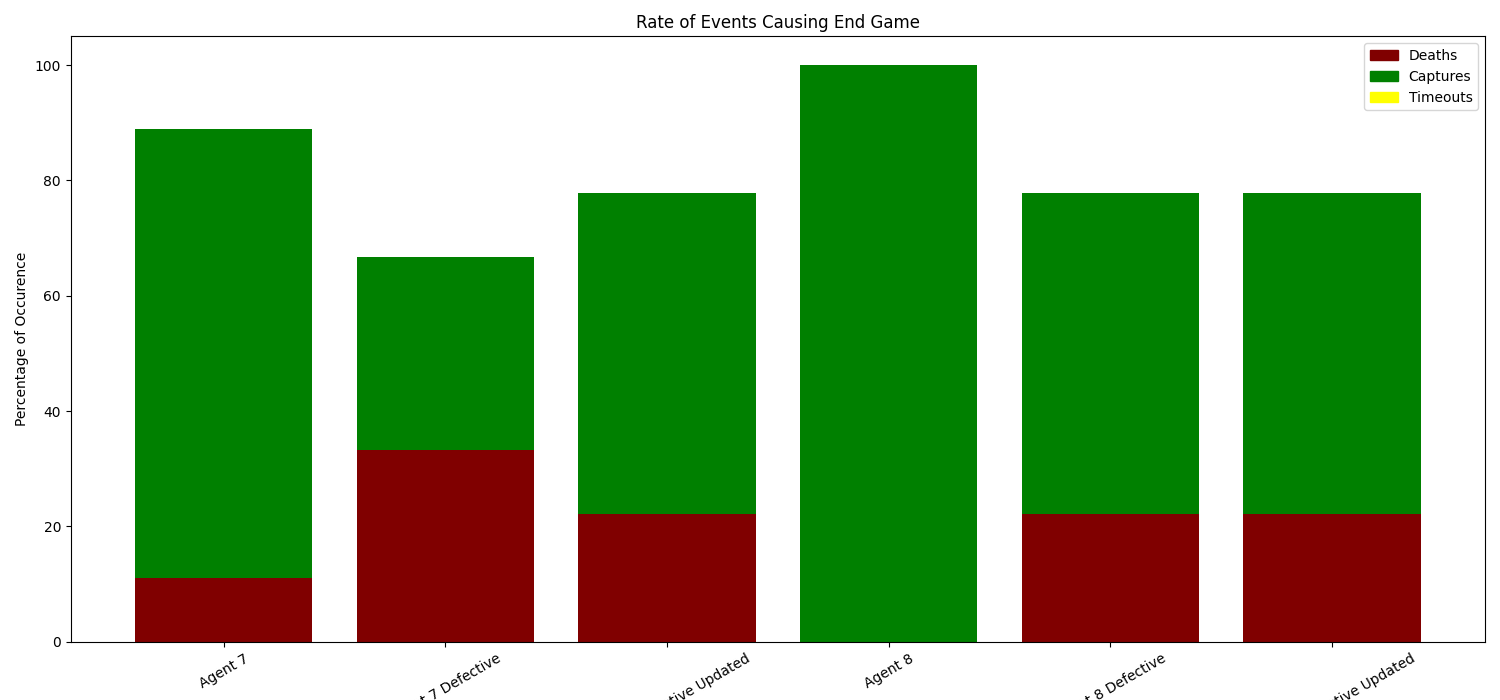
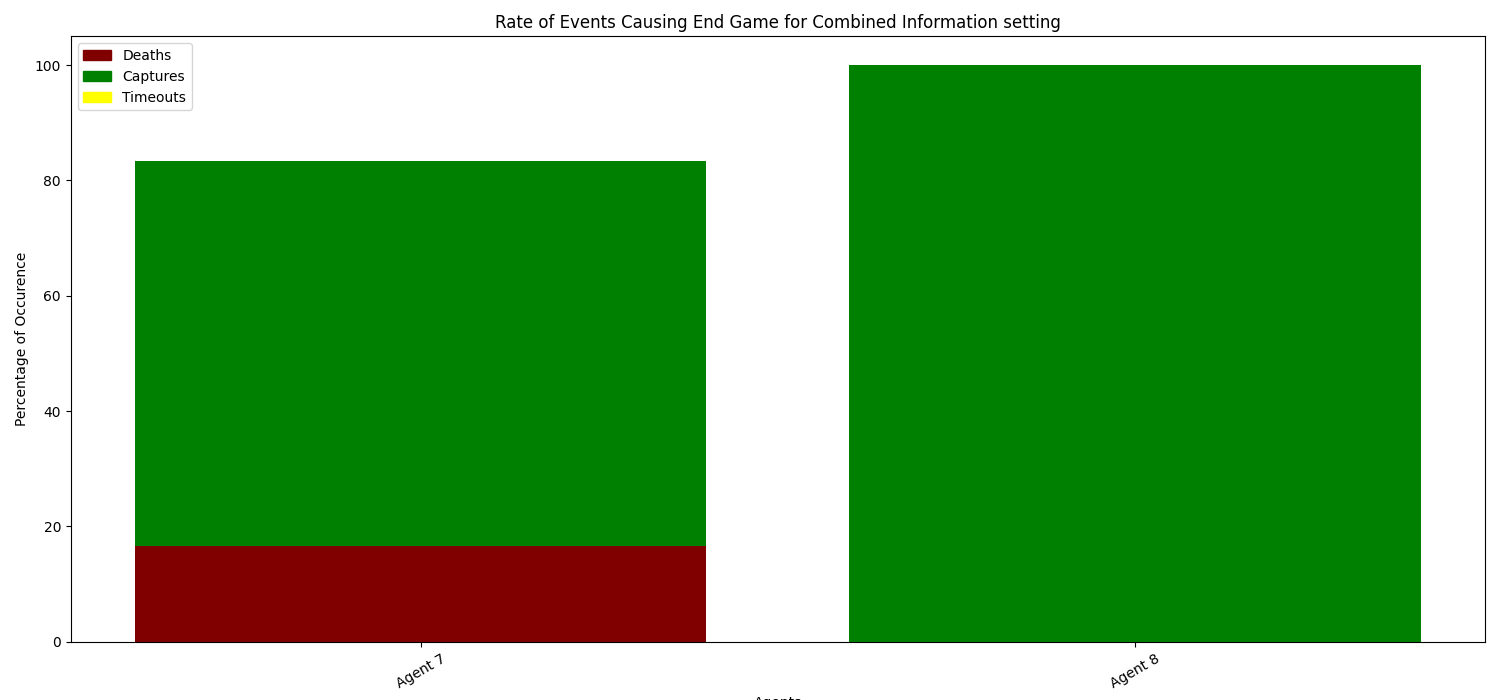
Fixed Labels

diff --git a/main.py b/main.py
@@ -325,11 +325,7 @@ def main():
       'Agent 5':round((a5_caught/total_runs) * 100, 3),
        'Agent 6':round((a6_caught/total_runs) * 100, 3),
         'Agent 7':round((a7_caught/total_runs) * 100, 3),
-         'Agent 7 Defective':round((a7d_caught/total_runs) * 100, 3),
-          'Agent 7 Defective Updated':round((a7du_caught/total_runs) * 100, 3),
-           'Agent 8':round((a8_caught/total_runs) * 100, 3),
-            'Agent 8 Defective':round((a8d_caught/total_runs) * 100, 3),
-             'Agent 8 Defective Updated':round((a7du_caught/total_runs) * 100, 3)}
+           'Agent 8':round((a8_caught/total_runs) * 100, 3)}
 
     death_data = {'Agent 1':round((a1_died/total_runs) * 100, 3),
      'Agent 2':round((a2_died/total_runs) * 100, 3),
@@ -338,11 +334,7 @@ def main():
       'Agent 5':round((a5_died/total_runs) * 100, 3),
        'Agent 6':round((a6_died/total_runs) * 100, 3),
         'Agent 7':round((a7_died/total_runs) * 100, 3),
-         'Agent 7 Defective':round((a7d_died/total_runs) * 100, 3),
-          'Agent 7 Defective Updated':round((a7du_died/total_runs) * 100, 3),
-           'Agent 8':round((a8_died/total_runs) * 100, 3),
-            'Agent 8 Defective':round((a8d_died/total_runs) * 100, 3),
-             'Agent 8 Defective Updated':round((a7du_died/total_runs) * 100, 3)}
+           'Agent 8':round((a8_died/total_runs) * 100, 3)}
 
     time_out_data = {'Agent 1':round((a1_time_out/total_runs) * 100, 3),
      'Agent 2':round((a2_time_out/total_runs) * 100, 3),
@@ -351,11 +343,7 @@ def main():
       'Agent 5':round((a5_time_out/total_runs) * 100, 3),
        'Agent 6':round((a6_time_out/total_runs) * 100, 3),
         'Agent 7':round((a7_time_out/total_runs) * 100, 3),
-         'Agent 7 Defective':round((a7d_time_out/total_runs) * 100, 3),
-          'Agent 7 Defective Updated':round((a7du_time_out/total_runs) * 100, 3),
-           'Agent 8':round((a8_time_out/total_runs) * 100, 3),
-            'Agent 8 Defective':round((a8d_time_out/total_runs) * 100, 3),
-             'Agent 8 Defective Updated':round((a7du_time_out/total_runs) * 100, 3)}
+           'Agent 8':round((a8_time_out/total_runs) * 100, 3)}
 
     steps_data = {'Agent 1':(a1_steps/total_runs),
      'Agent 2':(a2_steps/total_runs),
@@ -364,31 +352,19 @@ def main():
       'Agent 5':(a5_steps/total_runs),
        'Agent 6':(a6_steps/total_runs),
         'Agent 7':(a7_steps/total_runs),
-         'Agent 7 Defective':(a7d_steps/total_runs),
-          'Agent 7 Defective Updated':(a7du_steps/total_runs),
-           'Agent 8':(a8_steps/total_runs),
-            'Agent 8 Defective':(a8d_steps/total_runs),
-             'Agent 8 Defective Updated':(a8du_steps/total_runs)}
+           'Agent 8':(a8_steps/total_runs),}
 
     prey_certainty_data = {
         'Agent 3':round(a3_prey_certain/a3_steps * 100, 3),
         'Agent 4':round(a4_prey_certain/a4_steps * 100, 3),
         'Agent 7':round(a7_prey_certain/a7_steps * 100, 3),
-        'Agent 7\nDefective':round(a7d_prey_certain/a7d_steps * 100, 3),
-        'Agent 7\nDefective\nUpdated':round(a7du_prey_certain/a7du_steps * 100, 3),
-        'Agent 8':round(a8_prey_certain/a8_steps * 100, 3),
-        'Agent 8\nDefective':round(a8d_prey_certain/a8d_steps * 100, 3),
-        'Agent 8\nDefective\nUpdated':round(a8du_prey_certain/a8du_steps * 100, 3)}
+        'Agent 8':round(a8_prey_certain/a8_steps * 100, 3)}
 
     predator_certainty_data = {
         'Agent 5':round(a5_predator_certain/a5_steps * 100, 3),
         'Agent 6':round(a6_predator_certain/a6_steps * 100, 3),
         'Agent 7':round(a7_predator_certain/a7_steps * 100, 3),
-        'Agent 7\nDefective':round(a7d_predator_certain/a7d_steps * 100, 3),
-        'Agent 7\nDefective\nUpdated':round(a7du_predator_certain/a7du_steps * 100, 3),
-        'Agent 8':round(a8_predator_certain/a8_steps * 100, 3),
-        'Agent 8\nDefective':round(a8d_predator_certain/a8d_steps * 100, 3),
-        'Agent 8\nDefective\nUpdated':round(a7du_predator_certain/a8du_steps * 100, 3)}
+        'Agent 8':round(a8_predator_certain/a8_steps * 100, 3)}
              
     
     Catch_rates = list(caught_data.values())
@@ -412,7 +388,7 @@ def main():
     handles = [plt.Rectangle((0,0),1,1, color=colors[label]) for label in labels]
     plt.legend(handles, labels)
     plt.xlabel("Agents")
-    plt.ylabel("Percentage of Occurence")
+    plt.ylabel("Percentage of Occurence for Complete Information Setting")
     plt.title("Rate of Events Causing End Game")
     plt.tight_layout()
     plt.xticks(rotation = 30)
@@ -425,7 +401,7 @@ def main():
 
     plt.xlabel("Agents")
     plt.ylabel("Average Number of Steps")
-    plt.title("Comparision of average number of steps for Complete Information setting:")
+    plt.title("Comparision of average number of steps for Complete Information setting")
     plt.tight_layout()
     plt.xticks(rotation = 30)
     #plt.show() 
@@ -446,7 +422,7 @@ def main():
     plt.legend(handles, labels)
     plt.xlabel("Agents")
     plt.ylabel("Percentage of Occurence")
-    plt.title("Rate of Events Causing End Game")
+    plt.title("Rate of Events Causing End Game for Partial Prey Information Setting")
     plt.tight_layout()
     plt.xticks(rotation = 30)
     #plt.show() 
@@ -458,7 +434,7 @@ def main():
 
     plt.xlabel("Agents")
     plt.ylabel("Average Number of Steps")
-    plt.title("Comparision of average number of steps for Complete Information setting:")
+    plt.title("Comparision of average number of steps for Partial Prey Information setting")
     plt.tight_layout()
     plt.xticks(rotation = 30)
     #plt.show() 
@@ -478,7 +454,7 @@ def main():
     plt.legend(handles, labels)
     plt.xlabel("Agents")
     plt.ylabel("Percentage of Occurence")
-    plt.title("Rate of Events Causing End Game")
+    plt.title("Rate of Events Causing End Game for Partial Predator Information Setting")
     plt.tight_layout()
     plt.xticks(rotation = 30)
     #plt.show() 
@@ -490,7 +466,7 @@ def main():
 
     plt.xlabel("Agents")
     plt.ylabel("Average Number of Steps")
-    plt.title("Comparision of average number of steps for Complete Information setting:")
+    plt.title("Comparision of average number of steps for Partial Predator Information Setting")
     plt.tight_layout()
     plt.xticks(rotation = 30)
     #plt.show() 
@@ -510,7 +486,7 @@ def main():
     plt.legend(handles, labels)
     plt.xlabel("Agents")
     plt.ylabel("Percentage of Occurence")
-    plt.title("Rate of Events Causing End Game")
+    plt.title("Rate of Events Causing End Game for Combined Information setting")
     plt.tight_layout()
     plt.xticks(rotation = 30)
     #plt.show() 
@@ -519,7 +495,7 @@ def main():
     plt.bar(Agent_names[6:12], Steps_rates[6:12], color ='brown')
     plt.xlabel("Agents")
     plt.ylabel("Average Number of Steps")
-    plt.title("Comparision of average number of steps for Complete Information setting:")
+    plt.title("Comparision of average number of steps for Combined Information setting")
     plt.tight_layout()
     plt.xticks(rotation = 30)
 
@@ -549,7 +525,7 @@ def main():
     
     plt.xlabel("Agents")
     plt.ylabel("Percentage of Runs Agent Catches Prey")
-    plt.title("Agent Catches:")
+    plt.title("Agent Catches")
     plt.bar(Agent_names, Catch_rates, color ='green')
     plt.tight_layout()
     plt.xticks(rotation = 30)
@@ -560,7 +536,7 @@ def main():
 
     plt.xlabel("Agents")
     plt.ylabel("Percentage of Runs Agent Dies")
-    plt.title("Agent Deaths:")
+    plt.title("Agent Deaths")
     plt.bar(Agent_names, Death_rates, color ='maroon')
     plt.tight_layout()
     plt.xticks(rotation = 30)
@@ -571,7 +547,7 @@ def main():
 
     plt.xlabel("Agents")
     plt.ylabel("Average Steps taken by Agent")
-    plt.title("Steps:")
+    plt.title("Steps taken by Agents Steps")
     plt.bar(Agent_names, Steps_rates, color ='gold')
     plt.tight_layout()
     plt.xticks(rotation = 30)
@@ -581,8 +557,8 @@ def main():
     figs = plt.figure(figsize = (10, 7))
 
     plt.xlabel("Agents")
-    plt.ylabel("Percentage of Steps Certain of Prey Position (and Correct)")
-    plt.title("Percentage:")
+    plt.ylabel("Percentage")
+    plt.title("Percentage of Steps Certain of Prey Position (and Correct)")
     plt.bar(Prey_certain_agents, Prey_certain, color ='purple')
     plt.tight_layout()
     plt.xticks(rotation = 30)
@@ -592,13 +568,153 @@ def main():
     figs = plt.figure(figsize = (10, 7))
 
     plt.xlabel("Agents")
-    plt.ylabel("Percentage of Steps Certain of Predator Position (and Correct)")
-    plt.title("Percentage:")
+    plt.ylabel("Percentage")
+    plt.title("Percentage of Steps Certain of Predator Position (and Correct)")
     plt.bar(Predator_certain_agents, Predator_certain, color ='pink')
     plt.tight_layout()
     plt.xticks(rotation = 30)
     #plt.show() 
     figs.savefig('plots/Predator_certainity_plot.png')
+
+    ##DEFECTIVE AGENT PLOTS
+
+    defective_caught_data = {
+        'Agent 7':round((a7_caught/total_runs) * 100, 3),
+        'Agent 7\nDefective':round((a7d_caught/total_runs) * 100, 3),
+        'Agent 7\nDefective\nUpdated':round((a7du_caught/total_runs) * 100, 3),
+        'Agent 8':round((a8_caught/total_runs) * 100, 3),
+        'Agent 8\nDefective':round((a8d_caught/total_runs) * 100, 3),
+        'Agent 8\nDefective\nUpdated':round((a7du_caught/total_runs) * 100, 3)}
+
+    defective_death_data = {
+        'Agent 7':round((a7_died/total_runs) * 100, 3),
+        'Agent 7\nDefective':round((a7d_died/total_runs) * 100, 3),
+        'Agent 7\nDefective\nUpdated':round((a7du_died/total_runs) * 100, 3),
+        'Agent 8':round((a8_died/total_runs) * 100, 3),
+            'Agent 8\nDefective':round((a8d_died/total_runs) * 100, 3),
+            'Agent 8\nDefective\nUpdated':round((a7du_died/total_runs) * 100, 3)}
+
+    defective_time_out_data = {
+        'Agent 7':round((a7_time_out/total_runs) * 100, 3),
+        'Agent 7\nDefective':round((a7d_time_out/total_runs) * 100, 3),
+        'Agent 7\nDefective\nUpdated':round((a7du_time_out/total_runs) * 100, 3),
+        'Agent 8':round((a8_time_out/total_runs) * 100, 3),
+        'Agent 8\nDefective':round((a8d_time_out/total_runs) * 100, 3),
+        'Agent 8\nDefective\nUpdated':round((a7du_time_out/total_runs) * 100, 3)}
+
+    defective_steps_data = {
+        'Agent 7':(a7_steps/total_runs),
+        'Agent 7\nDefective':(a7d_steps/total_runs),
+        'Agent 7\nDefective\nUpdated':(a7du_steps/total_runs),
+        'Agent 8':(a8_steps/total_runs),
+        'Agent 8 Defective':(a8d_steps/total_runs),
+        'Agent 8 Defective Updated':(a8du_steps/total_runs)}
+
+    defective_prey_certainty_data = {
+        'Agent 7':round(a7_prey_certain/a7_steps * 100, 3),
+        'Agent 7\nDefective':round(a7d_prey_certain/a7d_steps * 100, 3),
+        'Agent 7\nDefective\nUpdated':round(a7du_prey_certain/a7du_steps * 100, 3),
+        'Agent 8':round(a8_prey_certain/a8_steps * 100, 3),
+        'Agent 8\nDefective':round(a8d_prey_certain/a8d_steps * 100, 3),
+        'Agent 8\nDefective\nUpdated':round(a8du_prey_certain/a8du_steps * 100, 3)}
+
+    defective_predator_certainty_data = {
+        'Agent 7':round(a7_predator_certain/a7_steps * 100, 3),
+        'Agent 7\nDefective':round(a7d_predator_certain/a7d_steps * 100, 3),
+        'Agent 7\nDefective\nUpdated':round(a7du_predator_certain/a7du_steps * 100, 3),
+        'Agent 8':round(a8_predator_certain/a8_steps * 100, 3),
+        'Agent 8\nDefective':round(a8d_predator_certain/a8d_steps * 100, 3),
+        'Agent 8\nDefective\nUpdated':round(a7du_predator_certain/a8du_steps * 100, 3)}
+                
+        
+    defective_Catch_rates = list(defective_caught_data.values())
+    defective_Death_rates = list(defective_death_data.values())
+    defective_Time_Out_rates = list(defective_time_out_data.values())
+    defective_Steps_rates = list(defective_steps_data.values())
+    defective_Agent_names = list(defective_caught_data.keys())
+    defective_Prey_certain_agents = list(defective_prey_certainty_data.keys())
+    defective_Prey_certain = list(defective_prey_certainty_data.values())
+    defective_Predator_certain_agents = list(defective_predator_certainty_data.keys())
+    defective_Predator_certain = list(defective_predator_certainty_data.values())
+
+    ## Plots for combined partial setting
+
+    fig_combined_partial = plt.figure(figsize = (15, 7))
+
+    plt.bar(defective_Agent_names[6:12], defective_Catch_rates[6:12], color ='green')
+    plt.bar(defective_Agent_names[6:12], defective_Death_rates[6:12], color ='maroon')
+    plt.bar(defective_Agent_names[6:12], defective_Time_Out_rates[6:12], color ='yellow')
+    colors = {'Deaths':'maroon', 'Captures':'green', 'Timeouts':'yellow'}         
+    labels = list(colors.keys())
+    handles = [plt.Rectangle((0,0),1,1, color=colors[label]) for label in labels]
+    plt.legend(handles, labels)
+    plt.xlabel("Agents")
+    plt.ylabel("Percentage of Occurence")
+    plt.title("Rate of Events Causing End Game for Defective Agents")
+    plt.tight_layout()
+    plt.xticks(rotation = 30)
+    #plt.show() 
+    fig_combined_partial.savefig('plots/Plot1_combined_information_setting_defective.png')
+
+
+    ## MISC plots
+
+    figs = plt.figure(figsize = (10, 7)) # Decrease dpi to get higher resolution
+        
+    plt.xlabel("Agents")
+    plt.ylabel("Percentage of Runs Agent Catches Prey")
+    plt.title("Agent Catches for Defective Agents")
+    plt.bar(defective_Agent_names, defective_Catch_rates, color ='green')
+    plt.tight_layout()
+    plt.xticks(rotation = 30)
+    #plt.show() 
+    figs.savefig('plots/Success_Plot_defective.png')
+
+    figs = plt.figure(figsize = (10, 7))
+
+    plt.xlabel("Agents")
+    plt.ylabel("Percentage of Runs Agent Dies")
+    plt.title("Agent Deaths for Defective Agents")
+    plt.bar(defective_Agent_names, defective_Death_rates, color ='maroon')
+    plt.tight_layout()
+    plt.xticks(rotation = 30)
+    #plt.show() 
+    figs.savefig('plots/Failure_Plot_defective.png')
+
+    figs = plt.figure(figsize = (10, 7))
+
+    plt.xlabel("Agents")
+    plt.ylabel("Average Steps taken by Agent")
+    plt.title("Steps taken by Defective Agents")
+    plt.bar(defective_Agent_names, defective_Steps_rates, color ='gold')
+    plt.tight_layout()
+    plt.xticks(rotation = 30)
+    #plt.show() 
+    figs.savefig('plots/Avg_steps_plot_defective.png')
+
+    figs = plt.figure(figsize = (10, 7))
+
+    plt.xlabel("Agents")
+    plt.ylabel("Percentage")
+    plt.title("Percentage of Steps Certain of Prey Position (and Correct) for Defective Agents")
+    plt.bar(defective_Prey_certain_agents, defective_Prey_certain, color ='purple')
+    plt.tight_layout()
+    plt.xticks(rotation = 30)
+    #plt.show() 
+    figs.savefig('plots/Prey_certainity_Plot_defective.png')
+
+    figs = plt.figure(figsize = (10, 7))
+
+    plt.xlabel("Agents")
+    plt.ylabel("Perfectage")
+    plt.title("Percentage of Steps Certain of Predator Position (and Correct) for Defective Agents")
+    plt.bar(defective_Predator_certain_agents, defective_Predator_certain, color ='pink')
+    plt.tight_layout()
+    plt.xticks(rotation = 30)
+    #plt.show() 
+    figs.savefig('plots/Predator_certainity_plot_defective.png')
+
+    
 
 
 
